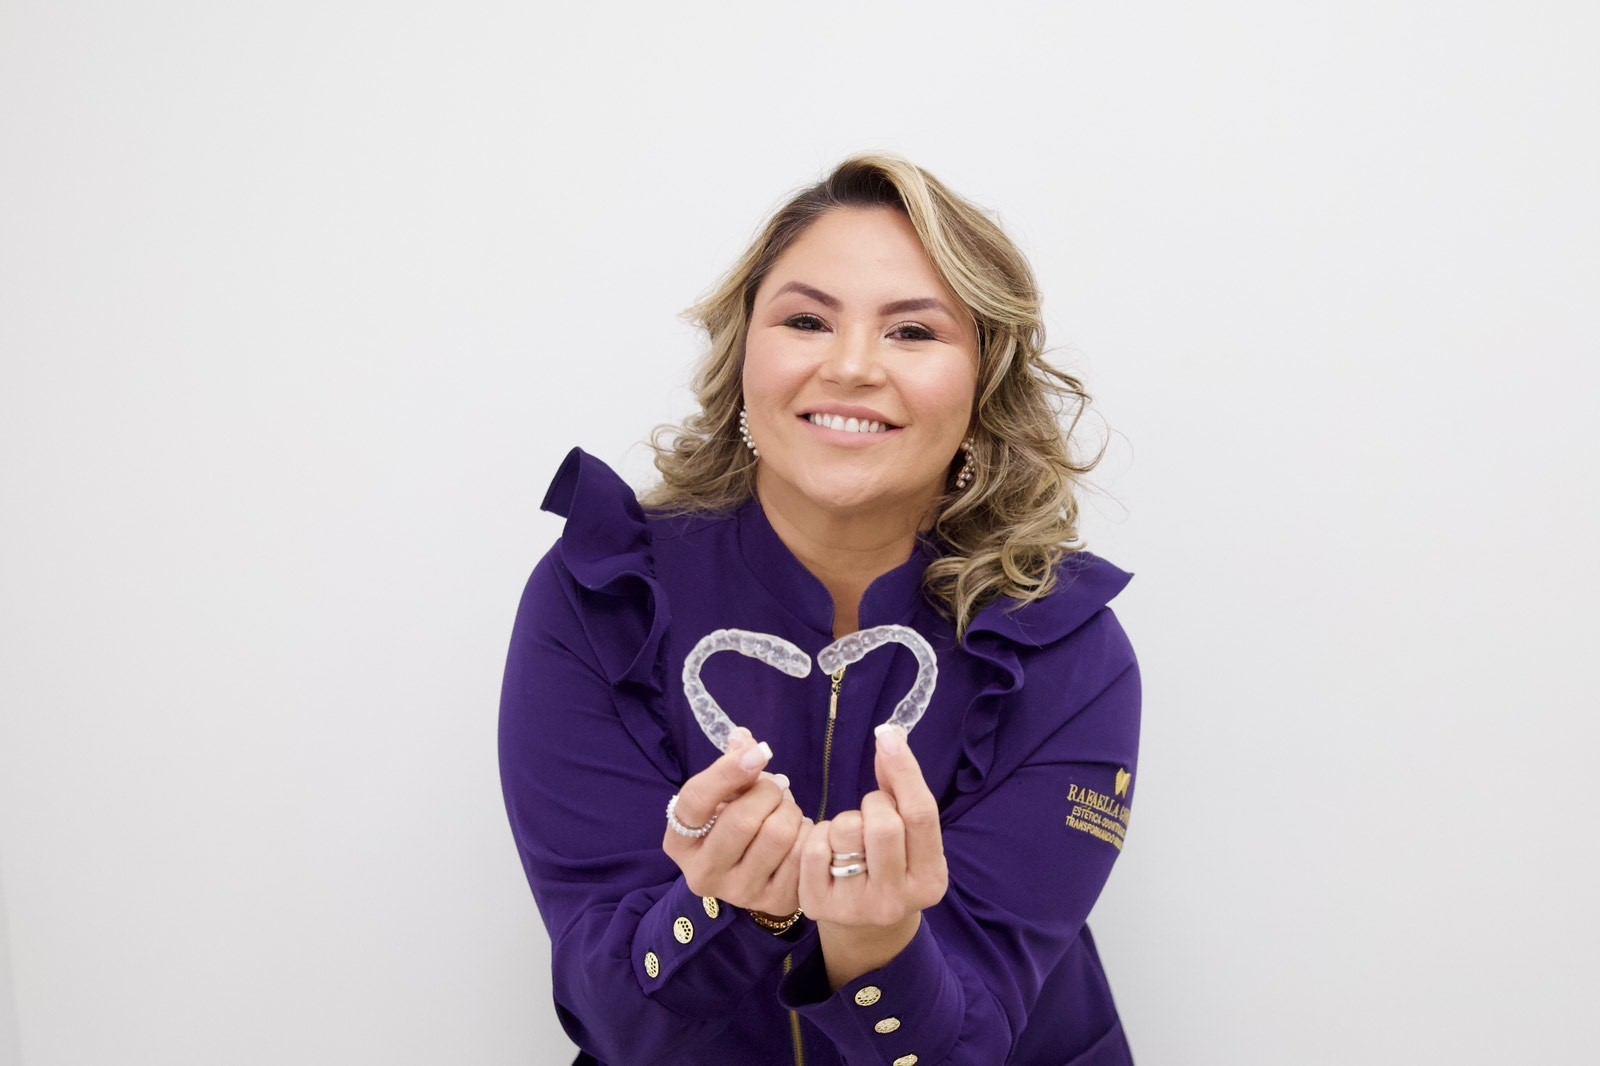
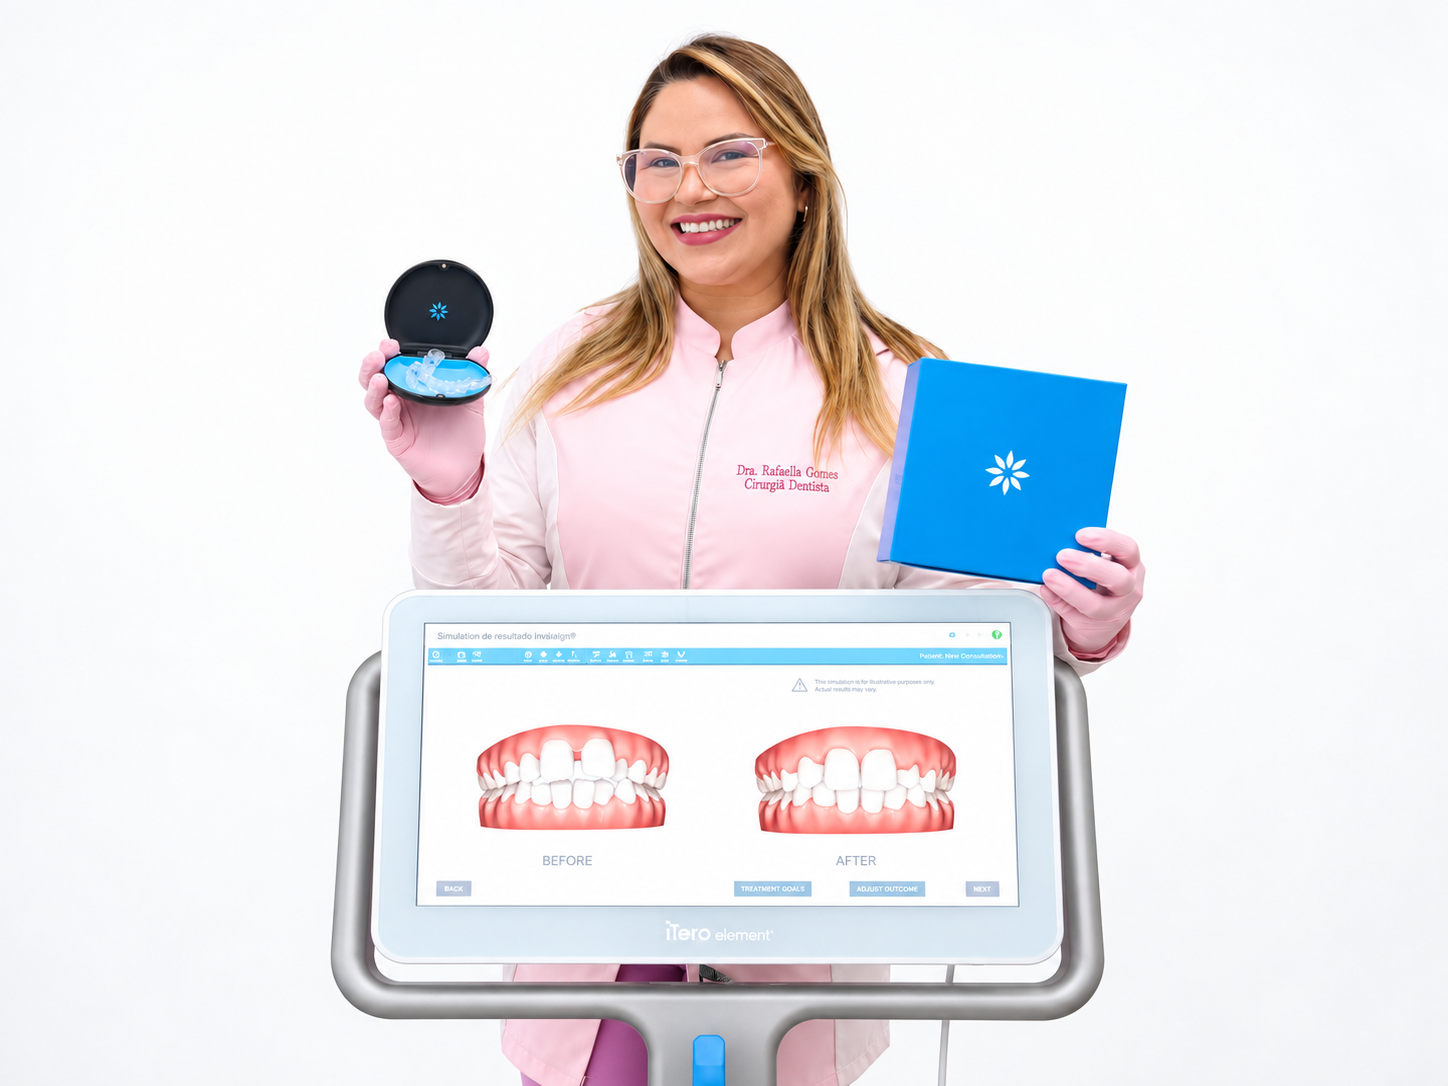
substituir foto sobre dra rafaella

diff --git a/app/page.tsx b/app/page.tsx
@@ -323,10 +323,17 @@ export default function Home() {
                 variants={fadeSlideUp}
                 className="text-[18px] font-medium leading-[1.66] tracking-[-0.45px] text-pencil"
               >
-                Formada há 25 anos com Mestrado e Especialidades em diversas áreas da odontologia,
+                Formada há 28 anos com Mestrado e Especialidades em diversas áreas da odontologia,
                 a Dra. Rafaella Gomes tem o propósito de preservar a saúde, o sorriso e a
                 qualidade de vida de seus pacientes, a partir de um atendimento personalizado,
-                ético e profissional.
+                humanizado, ético e profissional.
+              </motion.p>
+              <motion.p
+                variants={fadeSlideUp}
+                className="mt-4 text-[16px] font-bold text-pencil"
+              >
+                Premiada Invisalign Top Doctor 2025 e 2026, é uma profissional que transformou
+                muitos sorrisos com qualidade.
               </motion.p>
             </motion.div>
           </div>
